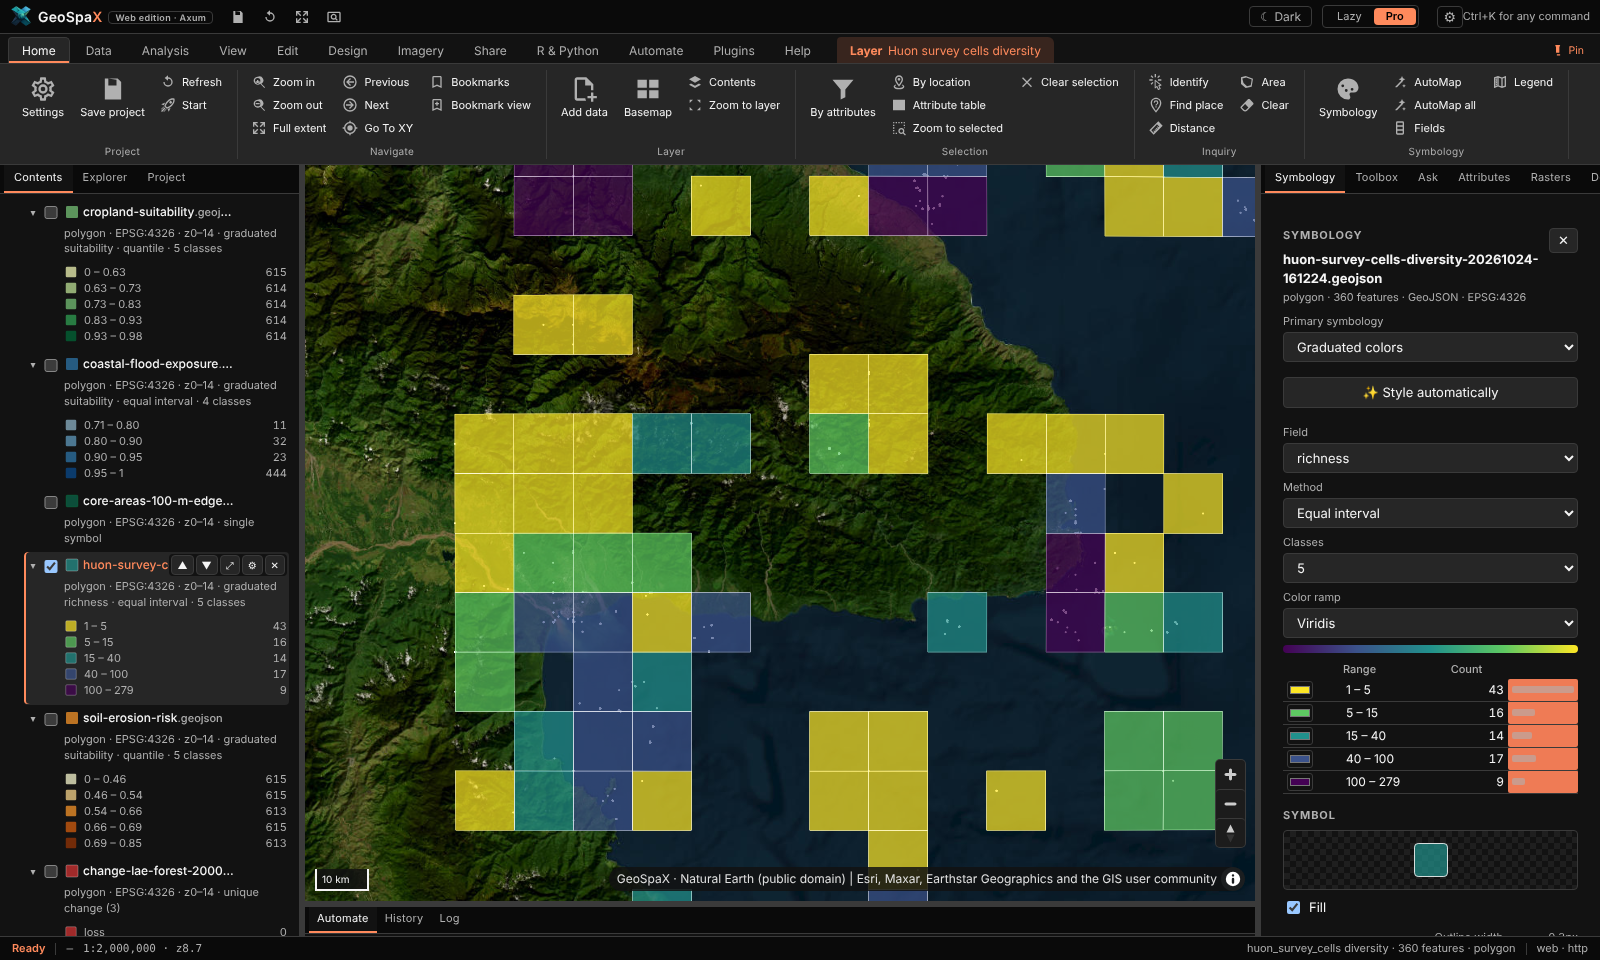
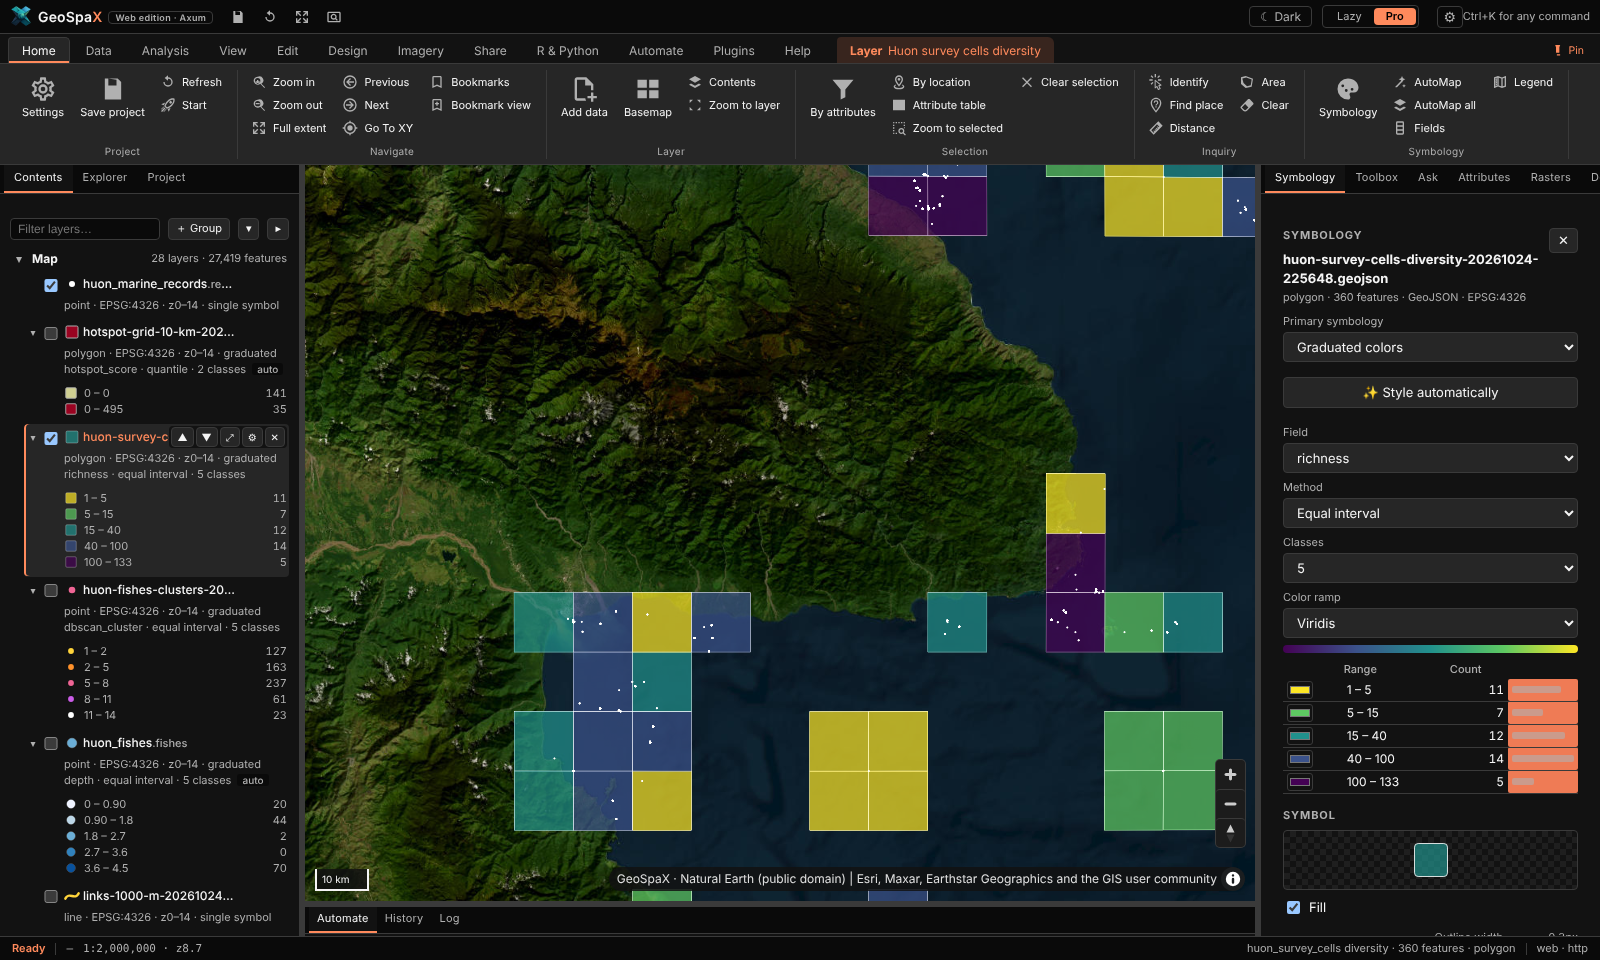
Showcases: biodiversity and conservation from marine records only (seafloor, no birds)

diff --git a/README.md b/README.md
@@ -96,9 +96,9 @@ built-up and water cells are excluded.
 
 <p align="center"><img src="docs/assets/plugin-agriculture.png" alt="GeoSpaX Agriculture plugin: cropland suitability around Lae from slope, open land and elevation" width="900" /></p>
 
-**Biodiversity · richness and diversity.** 4,842 OBIS marine records of the Huon Gulf summarised per
-0.1° cell: species richness (up to 279 taxa in one cell), Shannon, Simpson and evenness for the 99 cells
-with records.
+**Biodiversity · richness and diversity.** OBIS records of the Huon Gulf, kept to those on the seafloor
+(GEBCO depth below 0 m, birds left out: 3,536 of 4,842), summarised per 0.1° cell: 987 taxa in all,
+species richness up to 133 in one cell, and Shannon, Simpson and evenness for the 49 cells with records.
 
 <p align="center"><img src="docs/assets/plugin-biodiversity.png" alt="GeoSpaX Biodiversity plugin: species richness of OBIS records per cell in the Huon Gulf" width="900" /></p>
 
@@ -107,8 +107,8 @@ wetland (weighted linear combination); ground above 30 m is excluded.
 
 <p align="center"><img src="docs/assets/plugin-climate.png" alt="GeoSpaX Climate plugin: coastal flood exposure of Lae's low-lying coast" width="900" /></p>
 
-**Conservation · weighted hotspot grid.** The same OBIS records counted on 10 km hexagons: 67 of 203
-hexagons hold records, with the densest sampling along the Lae coast and the Huon Peninsula.
+**Conservation · weighted hotspot grid.** The same marine records counted on 10 km hexagons: 35 of 176
+hold records, densest off Lae and along the Huon Peninsula coast.
 
 <p align="center"><img src="docs/assets/plugin-conservation.png" alt="GeoSpaX Conservation plugin: 10 km hexagon hotspot grid of OBIS records" width="900" /></p>
 
